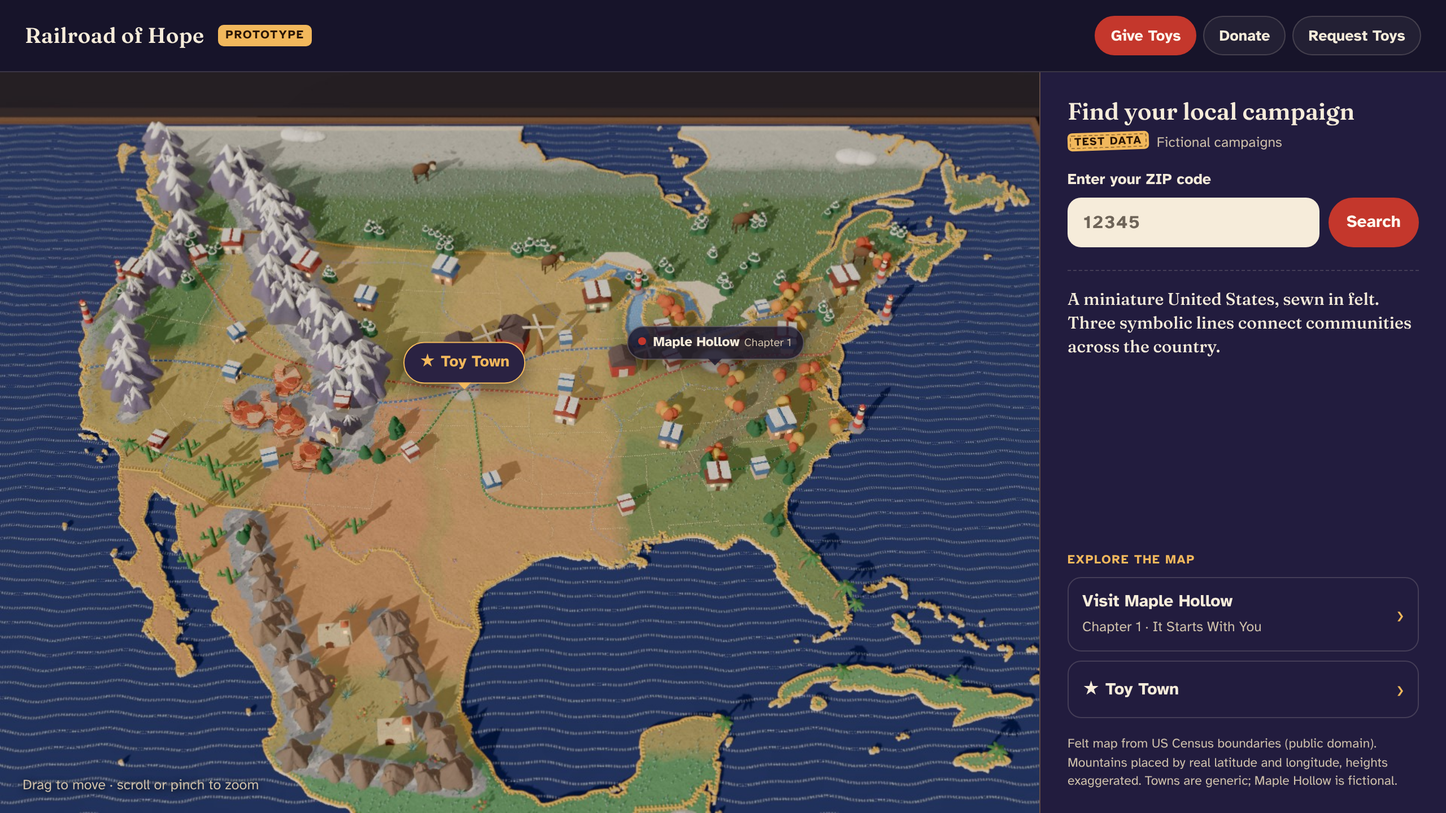
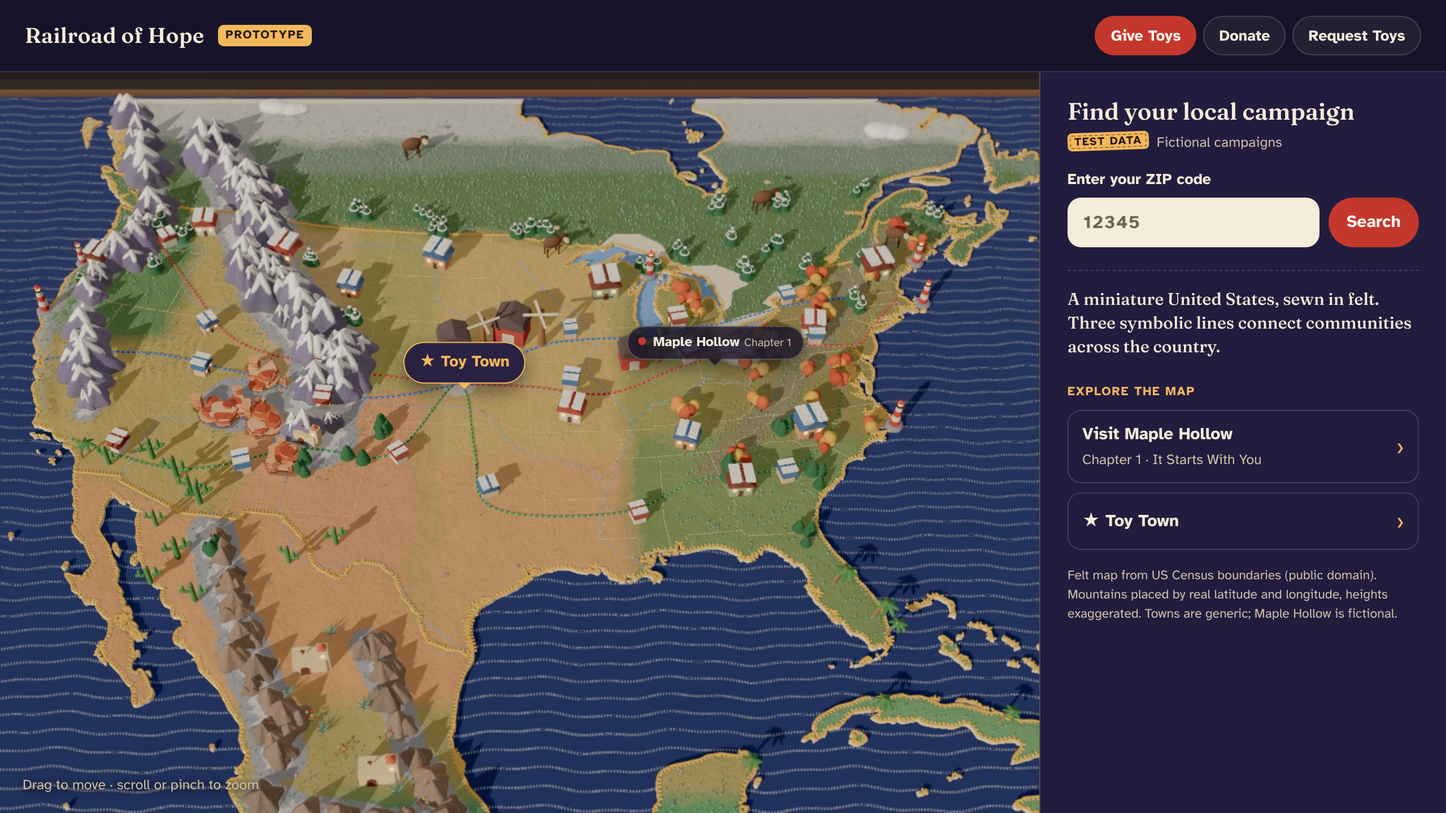
Concepts: closer phone landings with projected labels; more map room in B on phones
Claude-Session: https://claude.ai/code/session_017tNAHcpaXsDX6pdqSWLTrX

diff --git a/docs/concepts/ux-directions/render.js b/docs/concepts/ux-directions/render.js
@@ -18,15 +18,15 @@ const R = [
   // Direction A, map-first: the map is the whole page; a small search pill, then a result card where the pill was
   { name: 'A_desktop_landing', w: 1280, h: 720 },
   { name: 'A_desktop_found', w: 1280, h: 720, zip: '00201', css: '#finder{top:84px!important;right:20px!important;width:340px!important;height:250px!important;max-height:none!important;overflow:hidden!important}' },
-  { name: 'A_phone_landing', w: 390, h: 844, zoom: 0.6, target: [10, 25] },   // closer than the app's portrait view: the country fills the screen
+  { name: 'A_phone_landing', w: 390, h: 844, zoom: 0.56, target: [10, -30] },   // closer than the app's portrait view: the country fills the screen
   { name: 'A_phone_found', w: 390, h: 844, zip: '00201', css: offFinder + bar(52) + bottomEdge(548) },      // result sheet from y 556
   { name: 'A_phone_details', w: 390, h: 400, zip: '00201', css: offFinder + bar(52) },   // only the band above the expanded sheet (from y 392) shows map
   // Direction B, integrated: the map is a region of the page beside / above a docked panel (rendered at that size)
   { name: 'B_desktop_landing', w: 920, h: 656, css: noBar + offFinder, zoom: 0.9 },
   { name: 'B_desktop_found', w: 920, h: 656, zip: '00201', css: noBar + offFinder },
-  { name: 'B_phone_landing', w: 390, h: 500, css: noBar + offFinder, zoom: 0.72, target: [10, 30] },
-  { name: 'B_phone_found', w: 390, h: 380, zip: '00201', css: noBar + offFinder },
-  { name: 'B_phone_details', w: 390, h: 236, zip: '00201', css: noBar + offFinder },
+  { name: 'B_phone_landing', w: 390, h: 500, css: noBar + offFinder, zoom: 0.7, target: [10, -12] },
+  { name: 'B_phone_found', w: 390, h: 500, zip: '00201', css: noBar + offFinder },
+  { name: 'B_phone_details', w: 390, h: 340, zip: '00201', css: noBar + offFinder },
 ];
 
 (async () => {
@@ -53,6 +53,10 @@ const R = [
       return { maple: at('pinMaple'), toytown: at('pinToy'), campaign: c.selected ? { x: c.x, y: c.y } : null, area: c.area || null };
     });
     const url = await p.evaluate(() => window.__nat.pose({ ...window.__nat.rig }));
+    if (r.zoom) {   // after a manual zoom the app may not have moved its label pins yet: place them from the projection
+      const g = await p.evaluate(() => ({ maple: window.__nat.project(-82.45, 40.45), toytown: window.__nat.project(-98.6, 39.3) }));
+      for (const k of ['maple', 'toytown']) a[k] = g[k] ? { x: g[k].x, y: g[k].y - 8 } : null;
+    }
     fs.writeFileSync(path.join(OUT, r.name + '.jpg'), Buffer.from(url.split(',')[1], 'base64'));
     anchors[r.name] = { w: r.w, h: r.h, ...a };
     console.log(r.name, JSON.stringify(anchors[r.name]));

diff --git a/docs/concepts/ux-directions/concepts.html b/docs/concepts/ux-directions/concepts.html
@@ -210,8 +210,8 @@ const screens = {
   B_phone_found() {
     this._Bphonebar();
     map('B_phone_found', 0, 52);
-    add(`<span class="abs sbtn" style="right:10px;top:${52 + 380 - 46}px;padding:8px 12px;font-size:13px">Whole country</span>`);
-    add(`<div class="abs" style="left:0;right:0;top:432px;bottom:0;background:var(--panel);border-top:1px solid rgba(242,184,92,.35);padding:14px 16px">
+    add(`<span class="abs sbtn" style="right:10px;top:${52 + 500 - 46}px;padding:8px 12px;font-size:13px">Whole country</span>`);
+    add(`<div class="abs" style="left:0;right:0;top:552px;bottom:0;background:var(--panel);border-top:1px solid rgba(242,184,92,.35);padding:14px 16px">
       <div style="display:flex;align-items:center;justify-content:space-between"><span class="zipchip">ZIP <b>${C.zip}</b> · <span class="link">Change</span></span><span class="tag">Test data</span></div>
       <p class="h" style="font-size:20px;margin-top:12px">${C.name}</p>
       <p class="ok" style="margin:5px 0 12px">Serves ZIP code ${C.zip}</p>
@@ -222,8 +222,8 @@ const screens = {
   B_phone_details() {
     this._Bphonebar();
     map('B_phone_details', 0, 52);
-    add(`<span class="abs sbtn" style="right:10px;top:${52 + 236 - 46}px;padding:8px 12px;font-size:13px">Whole country</span>`);
-    add(`<div class="abs" style="left:0;right:0;top:288px;bottom:0;background:var(--panel);border-top:1px solid rgba(242,184,92,.35);padding:14px 16px">
+    add(`<span class="abs sbtn" style="right:10px;top:${52 + 340 - 46}px;padding:8px 12px;font-size:13px">Whole country</span>`);
+    add(`<div class="abs" style="left:0;right:0;top:392px;bottom:0;background:var(--panel);border-top:1px solid rgba(242,184,92,.35);padding:14px 16px">
       <div style="display:flex;align-items:center;justify-content:space-between"><span class="zipchip">ZIP <b>${C.zip}</b> · <span class="link">Change</span></span><span class="tag">Test data</span></div>
       <p class="h" style="font-size:20px;margin-top:12px">${C.name}</p>
       <p class="ok" style="margin:5px 0 12px">Serves ZIP code ${C.zip}</p>
